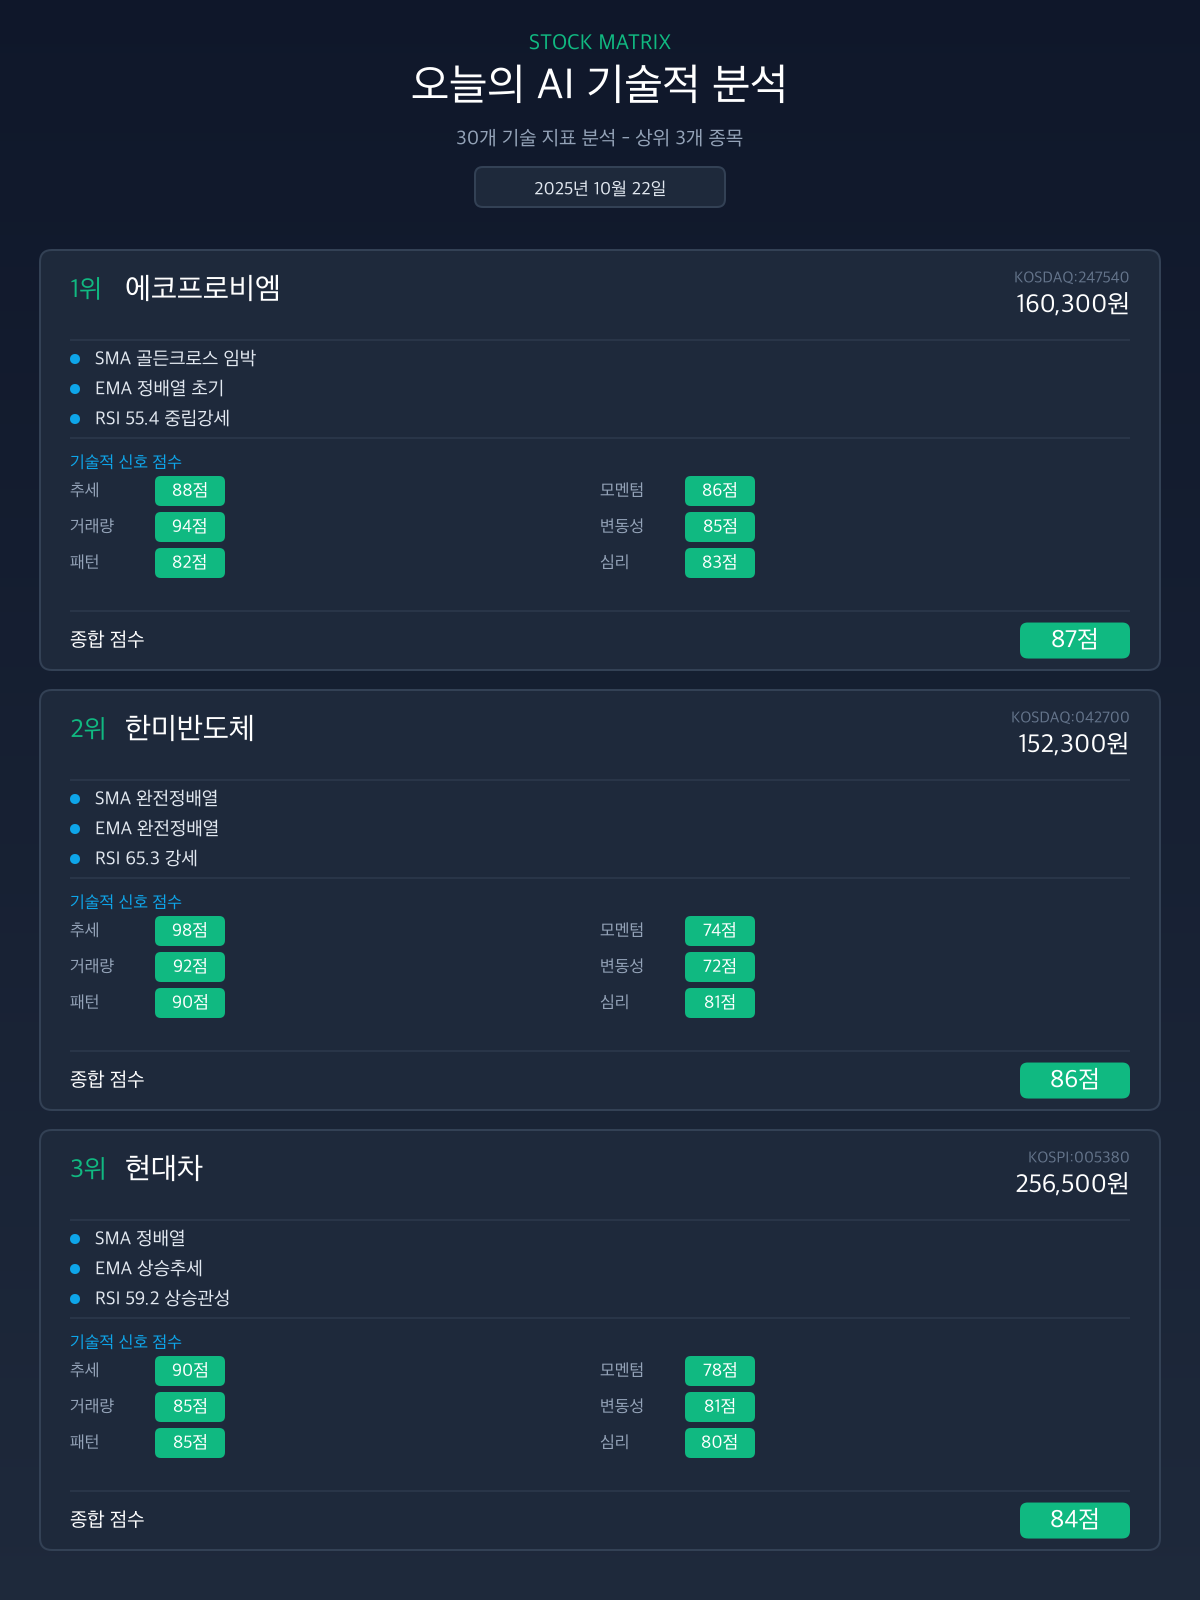
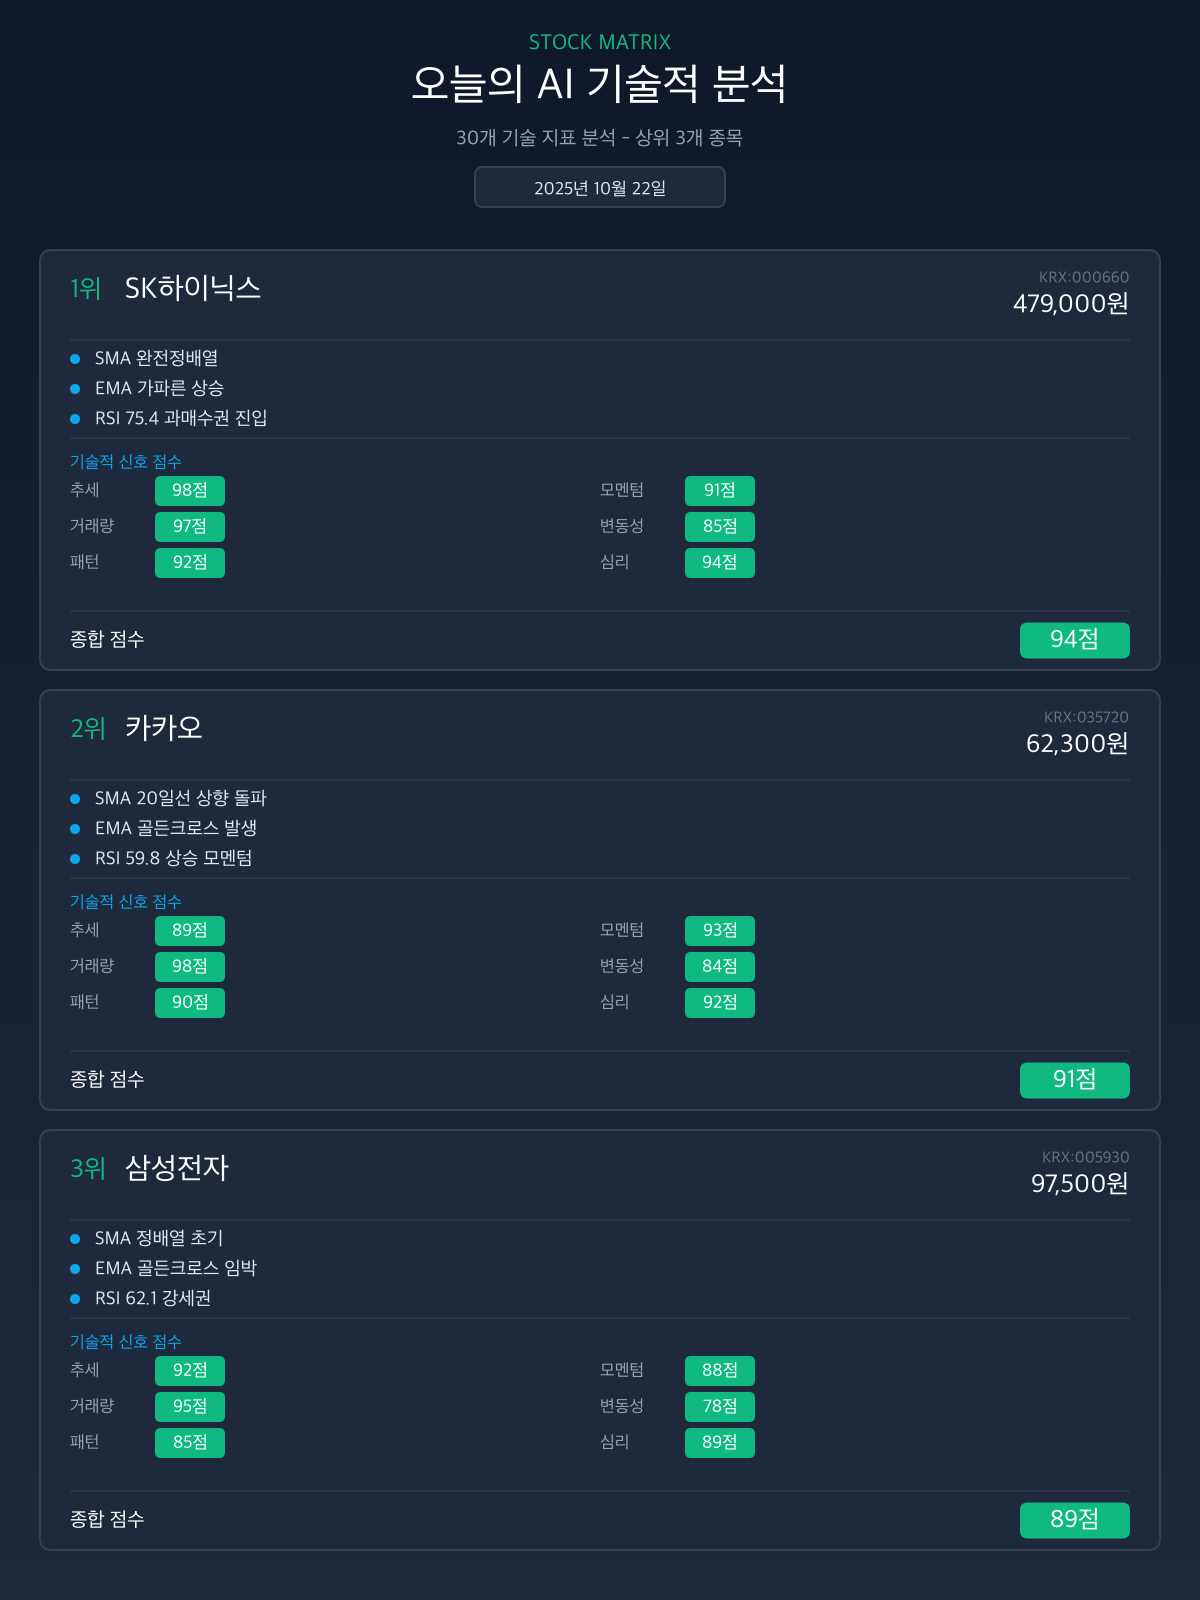
통신 셋팅 수정

diff --git a/lib/llm/gemini.ts b/lib/llm/gemini.ts
@@ -97,12 +97,12 @@ async function callGeminiAPI(genAI: GoogleGenAI): Promise<string> {
         config: {
             tools: [{ googleSearch: {} }],
             maxOutputTokens: 32768,
-            temperature: 0.3, // 0.5 → 0.3 더 집중된 응답
-            topP: 0.9, // 0.95 → 0.9 더 결정적
+            temperature: 0.5,
+            topP: 0.95,
             topK: 40,
             responseMimeType: 'text/plain',
             thinkingConfig: {
-                thinkingBudget: 8000, // 22000 → 8000 분석 마비 방지
+                thinkingBudget: 18000,
             },
         },
     }),
